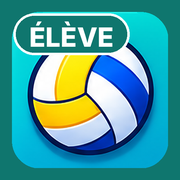
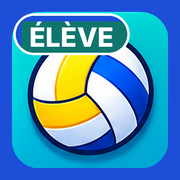
Icône à la couleur de l'activité (charte v1)
Claude-Session: https://claude.ai/code/session_01QNfJk8V2FdZHfoNhsmtJU7

Changed region(s): [[0.0, 0.0, 1.0, 1.0]]

diff --git a/sw.js b/sw.js
@@ -1,4 +1,4 @@
-const V='volley-eleves-v7';
+const V='volley-eleves-v8';
 // Toutes les applis partagent le même stockage (même adresse github.io) : on n'efface QUE les anciennes versions de CETTE appli.
 const MES_CACHES=/^(?:obs\-volley\-v|volley\-eleves\-v)\d+$/;
 
